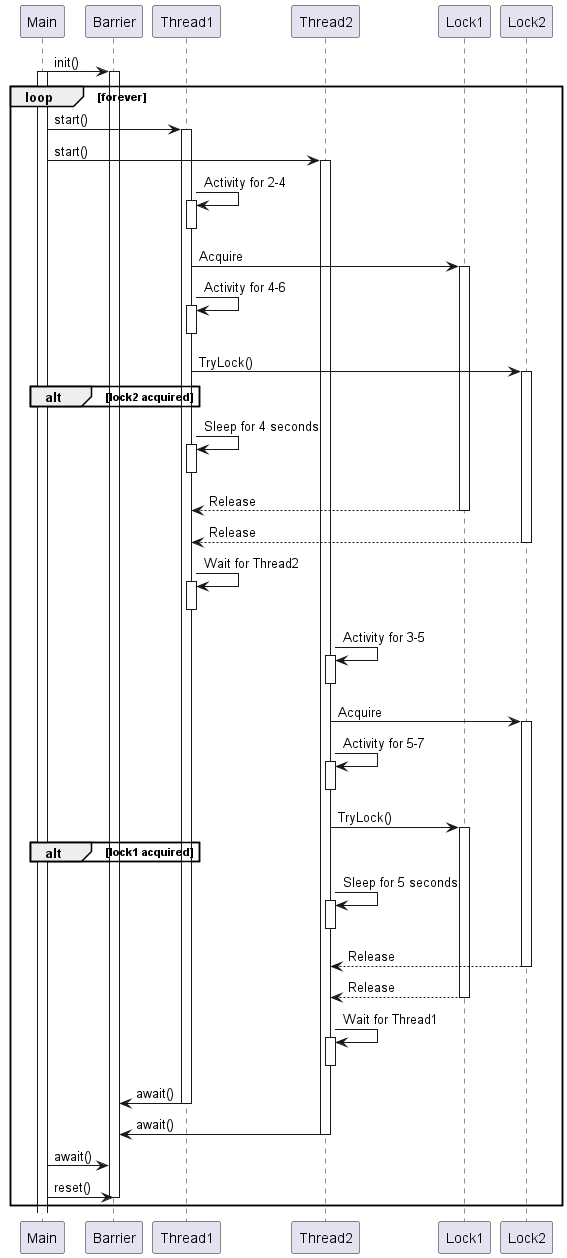
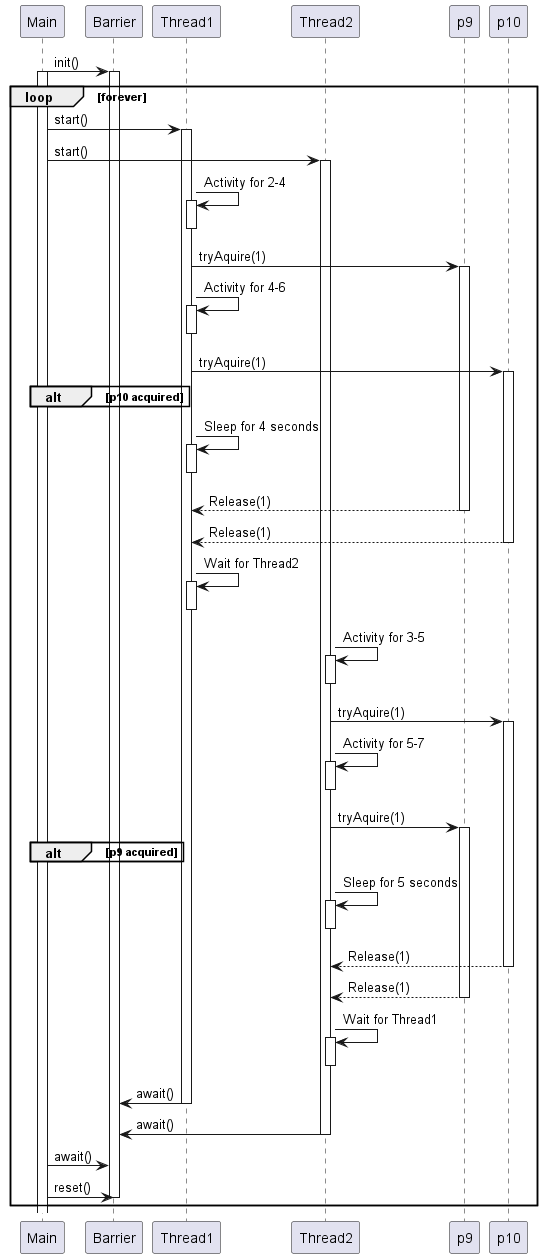
fixed labSesion5 app1
and maybe something else while recaping

diff --git a/RTS/src/LabSession5/Lab7/App1/ExecutionThread.java b/RTS/src/LabSession5/Lab7/App1/ExecutionThread.java
@@ -3,11 +3,12 @@ package LabSession5.Lab7.App1;
 
 import java.util.concurrent.BrokenBarrierException;
 import java.util.concurrent.CyclicBarrier;
+import java.util.concurrent.Semaphore;
 import java.util.concurrent.locks.Lock;
 
 public class ExecutionThread extends Thread {
 
-    Lock p9, p10;
+    Semaphore p9, p10;
 
     CyclicBarrier barrier;
 
@@ -15,7 +16,7 @@ public class ExecutionThread extends Thread {
     int sleep_time, activity_min1, activity_max1, activity_min2, activity_max2;
 
     // constructor
-    public ExecutionThread(String name, int sleep_time, int activity_min1, int activity_max1, int activity_min2, int activity_max2, Lock p9, Lock p10, CyclicBarrier barrier) {
+    public ExecutionThread(String name, int sleep_time, int activity_min1, int activity_max1, int activity_min2, int activity_max2, Semaphore p9, Semaphore p10, CyclicBarrier barrier) {
         super(name);
         this.sleep_time = sleep_time;
         this.activity_min1 = activity_min1;
@@ -34,7 +35,7 @@ public class ExecutionThread extends Thread {
                 i++;
                 i--;
             }
-            if (p9.tryLock()) {
+            if (p9.tryAcquire(1)) {
                 try {
                     System.out.println(this.getName() + " - STATE 2");
                     k = (int) Math.round(Math.random() * (activity_max2 - activity_min2) + activity_min2);
@@ -43,7 +44,7 @@ public class ExecutionThread extends Thread {
                         i--;
                     }
 
-                    if (p10.tryLock()) {
+                    if (p10.tryAcquire(1)) {
                         try {
                             System.out.println(this.getName() + " - STATE 3");
                             Thread.sleep(sleep_time * 1000);
@@ -51,13 +52,13 @@ public class ExecutionThread extends Thread {
                         } catch (Exception e) {
                             e.printStackTrace();
                         } finally {
-                            p10.unlock();
+                            p10.release(1);
                         }
                     }
                 } catch (Exception e) {
                     e.printStackTrace();
                 } finally {
-                    p9.unlock();
+                    p9.release(1);
                 }
 
             }

diff --git a/RTS/src/LabSession5/Lab7/App1/Main.java b/RTS/src/LabSession5/Lab7/App1/Main.java
@@ -1,12 +1,13 @@
 package LabSession5.Lab7.App1;
 
 import java.util.concurrent.CyclicBarrier;
+import java.util.concurrent.Semaphore;
 import java.util.concurrent.locks.Lock;
 
 public class Main {
     public static void main(String[] args) {
-        Lock p9 = new java.util.concurrent.locks.ReentrantLock();
-        Lock p10 = new java.util.concurrent.locks.ReentrantLock();
+        Semaphore p9 = new Semaphore(1);
+        Semaphore p10 = new Semaphore(1);
 
 
       CyclicBarrier barrier = new CyclicBarrier(3, new Runnable() {

diff --git a/RTS/src/LabSession4/Lab5/Lab4App2RedundantLock/Main.java b/RTS/src/LabSession4/Lab5/Lab4App2RedundantLock/Main.java
@@ -1,11 +1,13 @@
 package LabSession4.Lab5.Lab4App2RedundantLock;
 
+import java.util.concurrent.locks.Lock;
 import java.util.concurrent.locks.ReentrantLock;
 
 public class Main {
     public static void main(String[] args) {
         ReentrantLock monitor1 = new ReentrantLock();
         ReentrantLock monitor2 = new ReentrantLock();
+
 
         int[] t1 = {2, 4, 4, 6, 4};
         int[] t2 = {3, 5, 5, 7, 5};
